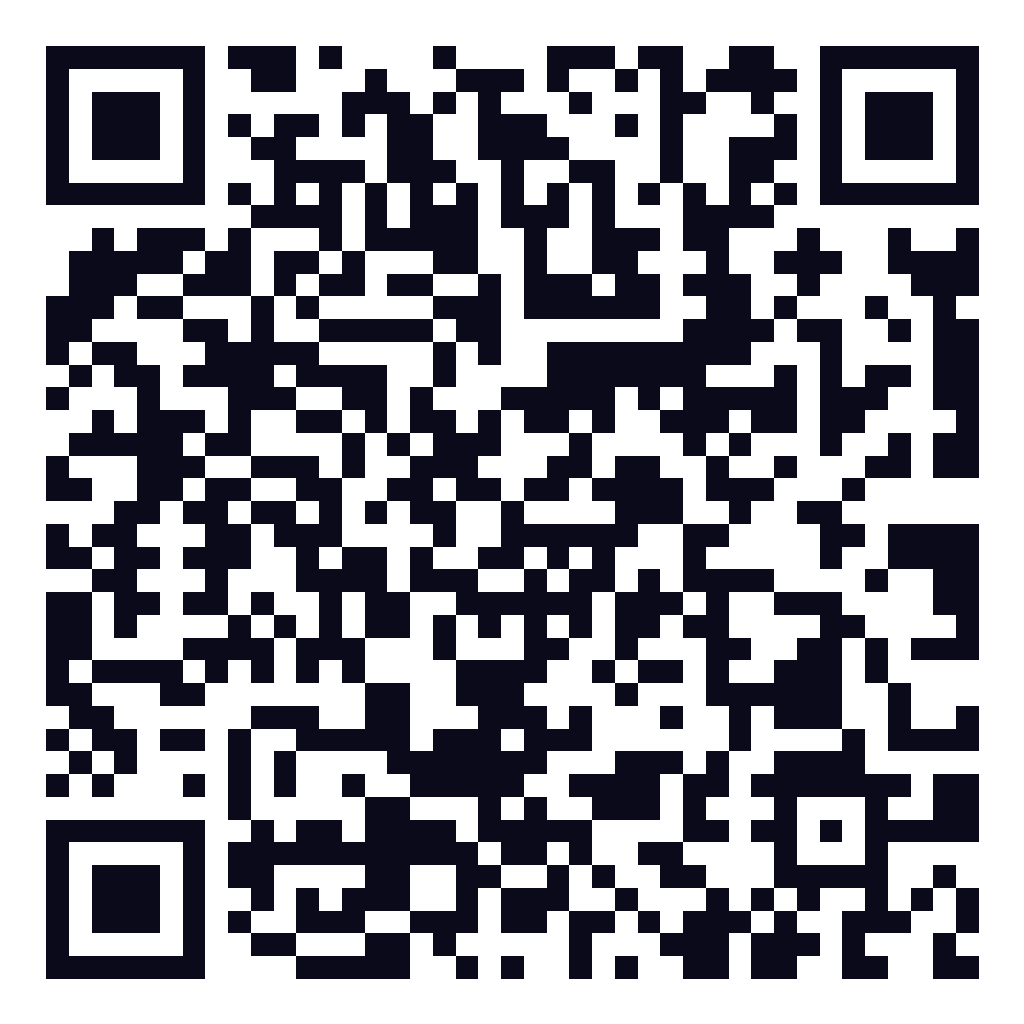
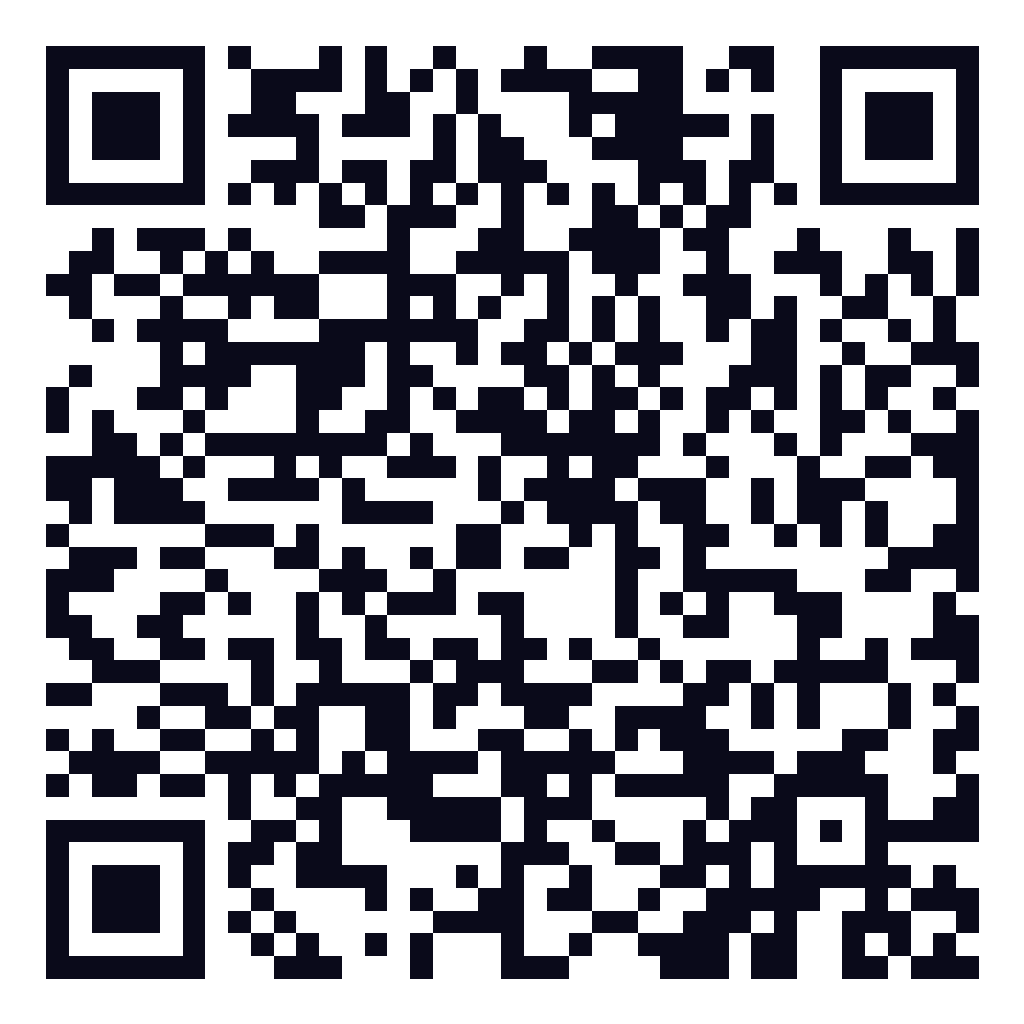
fix(qr): update target URL to stable Vercel domain and regenerate QR codes

diff --git a/exhibition-vol5/index.html b/exhibition-vol5/index.html
@@ -185,7 +185,7 @@ footer a{color:var(--cyan);text-decoration:none}
     <div class="qr-text">
       <h3>Scan & Read</h3>
       <p>スマートフォンのカメラでQRを読み取ると、このアーカイブページが開きます。展示ブースのモニター横にも掲示しています。</p>
-      <span class="qr-url" id="thisUrl">https://your-domain.example.com/</span>
+      <span class="qr-url" id="thisUrl">https://webar-coral.vercel.app/exhibition-vol5/</span>
     </div>
   </div>
 </section>

diff --git a/generate_qr.js b/generate_qr.js
@@ -2,7 +2,7 @@ const QRCode = require('qrcode');
 
 QRCode.toFile(
   'public/assets/marker_qr.png',
-  'https://webar-git-master-igashira0324s-projects.vercel.app/', // Fixed to stable master domain
+  'https://webar-coral.vercel.app/', // Vercel本番ドメインに統一
   {
     color: {
       dark: '#000000',
